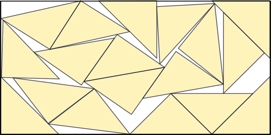
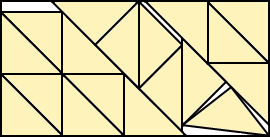
dom

diff --git a/packing/tanindom/index.html b/packing/tanindom/index.html
@@ -26,8 +26,8 @@
 
 <table align=center cellpadding=10><tr align=center>
 <td><font size=+3>14.-16.</font><br><img src="16.png"><br>s = 2<br>Trivial.
-<td>&nbsp;&nbsp;&nbsp;&nbsp;&nbsp;&nbsp;&nbsp;&nbsp;&nbsp;&nbsp;
<td><font size=+3>17.</font><br><img src="17.png"><br>s = 2.26339+<br>Found by Jonathan Viquerat in June 2026.
-<td>&nbsp;&nbsp;&nbsp;&nbsp;&nbsp;&nbsp;&nbsp;&nbsp;&nbsp;&nbsp;
<td><font size=+3>18.</font><br><img src="18.png"><br>s = 2.32021+<br>Found by Jonathan Viquerat in June 2026.
+<td>&nbsp;&nbsp;&nbsp;&nbsp;&nbsp;&nbsp;&nbsp;&nbsp;&nbsp;&nbsp;
<td><font size=+3>17.</font><br><img src="17.png"><br>s = (5+&radic;2)/3 = 2.13807+<br>Found by Maurizio Morandi in June 2026.
+<td>&nbsp;&nbsp;&nbsp;&nbsp;&nbsp;&nbsp;&nbsp;&nbsp;&nbsp;&nbsp;
<td><font size=+3>18.</font><br><img src="18.png"><br>s = 2.17527+<br>Found by Maurizio Morandi in June 2026.
 </table><hr>
 
</BODY>
</HTML>
 